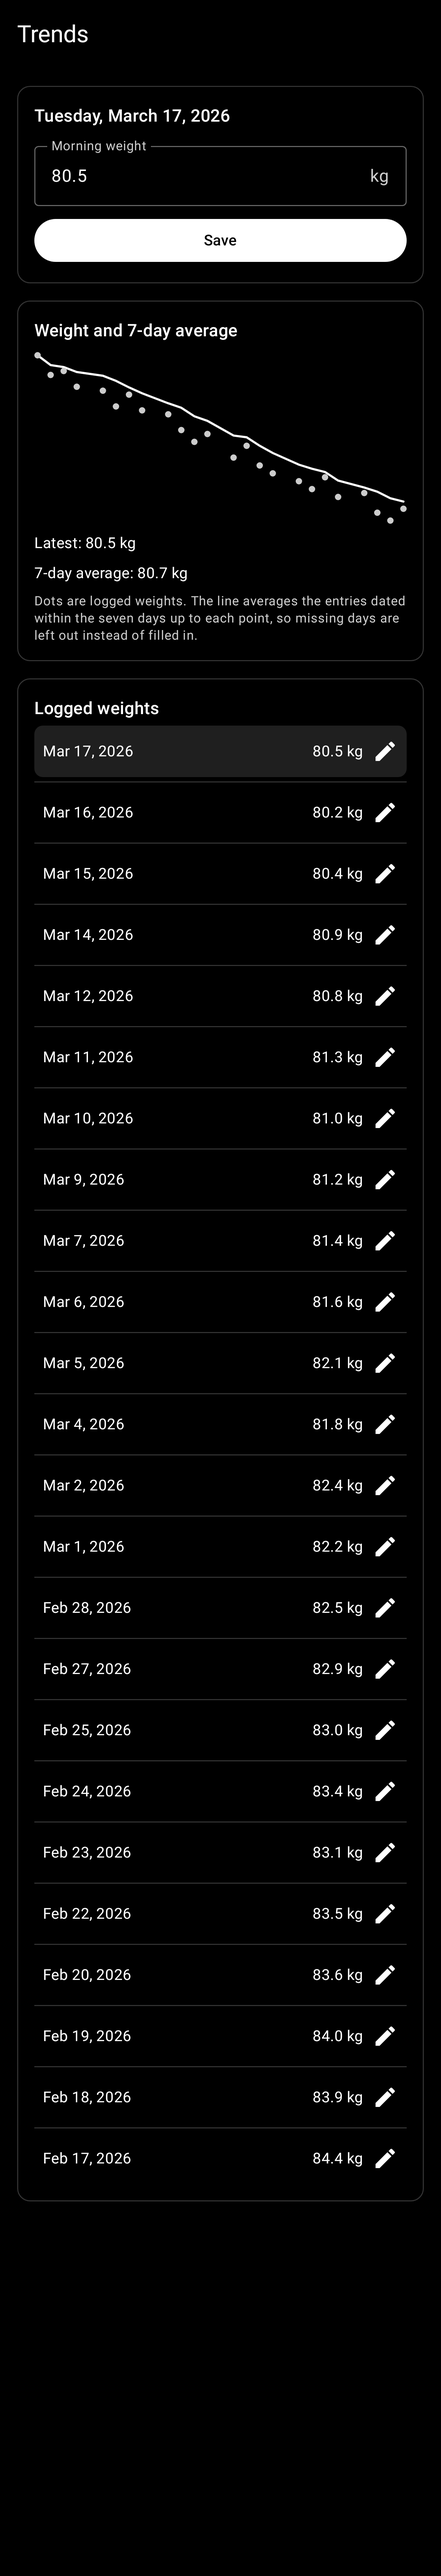
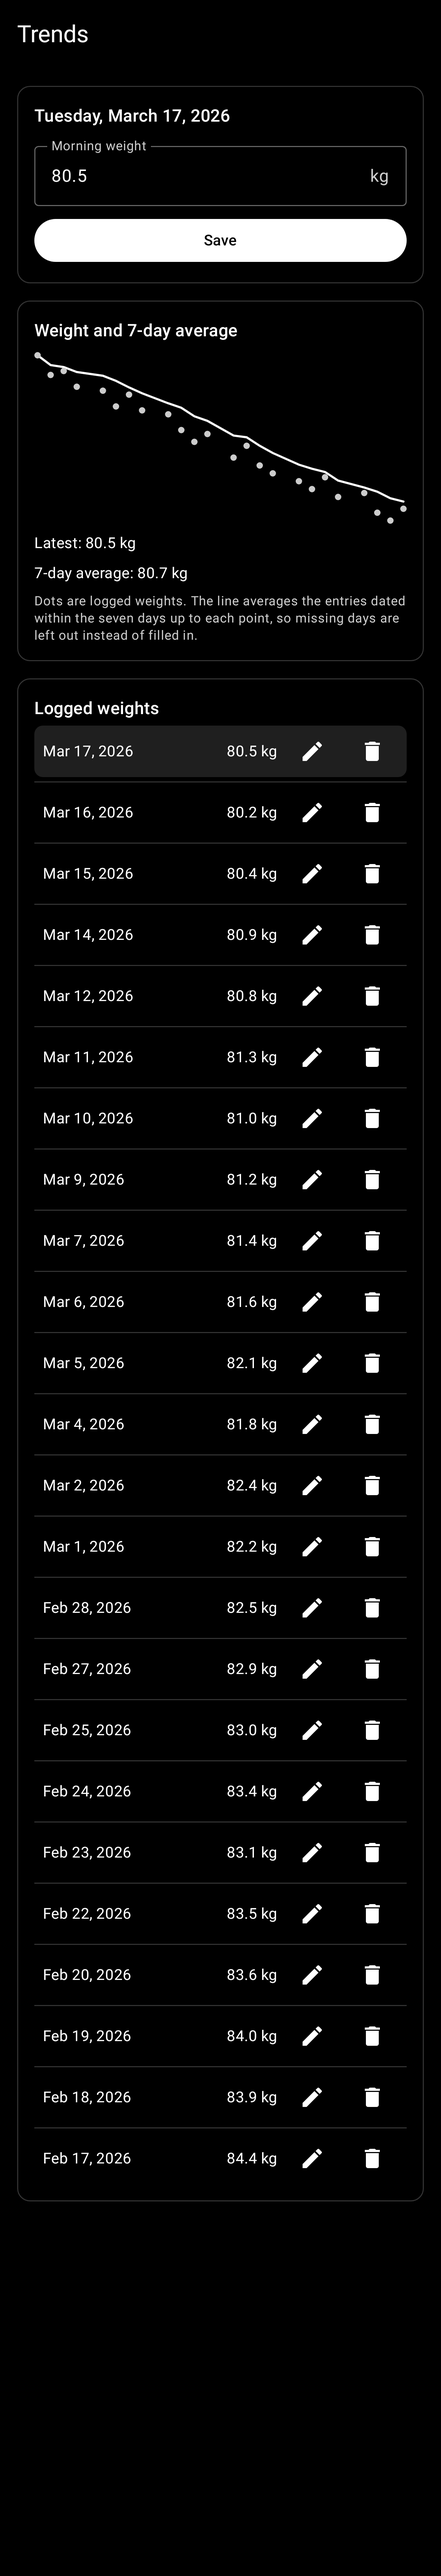
feat(trends): delete logged weights
Add Room and repository deletion by local date, expose delete controls beside logged weights, and return the editor to today when its selected record is removed. Cover persistence, ViewModel success/failure, accessibility labels, and screenshots.

diff --git a/app/src/main/java/app/kcal/feature/trends/TrendsScreen.kt b/app/src/main/java/app/kcal/feature/trends/TrendsScreen.kt
@@ -13,11 +13,13 @@ import androidx.compose.foundation.layout.padding
 import androidx.compose.foundation.rememberScrollState
 import androidx.compose.foundation.verticalScroll
 import androidx.compose.material.icons.Icons
+import androidx.compose.material.icons.filled.Delete
 import androidx.compose.material.icons.filled.Edit
 import androidx.compose.material3.Button
 import androidx.compose.material3.ExperimentalMaterial3Api
 import androidx.compose.material3.HorizontalDivider
 import androidx.compose.material3.Icon
+import androidx.compose.material3.IconButton
 import androidx.compose.material3.MaterialTheme
 import androidx.compose.material3.OutlinedCard
 import androidx.compose.material3.Scaffold
@@ -79,6 +81,7 @@ fun TrendsRoute(viewModel: TrendsViewModel = hiltViewModel()) {
         onWeightChange = viewModel::onWeightChange,
         onSave = viewModel::onSave,
         onEntryClick = viewModel::onEntryClick,
+        onDeleteEntry = viewModel::onDeleteEntry,
         onLogTodayClick = viewModel::onLogTodayClick,
         onRetry = viewModel::onRetry,
         snackbarHostState = snackbarHostState,
@@ -92,6 +95,7 @@ fun TrendsScreen(
     onWeightChange: (String) -> Unit,
     onSave: () -> Unit,
     onEntryClick: (LocalDate) -> Unit,
+    onDeleteEntry: (LocalDate) -> Unit,
     onLogTodayClick: () -> Unit,
     onRetry: () -> Unit,
     modifier: Modifier = Modifier,
@@ -118,6 +122,7 @@ fun TrendsScreen(
                     onWeightChange = onWeightChange,
                     onSave = onSave,
                     onEntryClick = onEntryClick,
+                    onDeleteEntry = onDeleteEntry,
                     onLogTodayClick = onLogTodayClick,
                     modifier = Modifier.padding(contentPadding),
                 )
@@ -131,6 +136,7 @@ private fun TrendsContent(
     onWeightChange: (String) -> Unit,
     onSave: () -> Unit,
     onEntryClick: (LocalDate) -> Unit,
+    onDeleteEntry: (LocalDate) -> Unit,
     onLogTodayClick: () -> Unit,
     modifier: Modifier = Modifier,
 ) {
@@ -155,12 +161,11 @@ private fun TrendsContent(
             WeightSeriesCard(uiState = uiState)
             LoggedWeightsCard(
                 uiState = uiState,
-                // The editor is the first card, so every row tap has to bring it back into view,
-                // including a tap on the day that is already selected.
                 onEntryClick = { date ->
                     onEntryClick(date)
                     scope.launch { scrollState.animateScrollTo(0) }
                 },
+                onDeleteEntry = onDeleteEntry,
             )
         }
     }
@@ -244,11 +249,13 @@ private fun WeightSeriesCard(uiState: TrendsUiState, modifier: Modifier = Modifi
 private fun LoggedWeightsCard(
     uiState: TrendsUiState,
     onEntryClick: (LocalDate) -> Unit,
+    onDeleteEntry: (LocalDate) -> Unit,
     modifier: Modifier = Modifier,
 ) {
     val locale = currentLocale()
     val unit = stringResource(uiState.unitSystem.weightUnitRes())
     val editLabel = stringResource(R.string.trends_edit_entry_content_description)
+    val deleteLabel = stringResource(R.string.trends_delete_entry_content_description)
     OutlinedCard(modifier = modifier.fillMaxWidth()) {
         Column(
             modifier = Modifier.padding(KcalSpacing.medium),
@@ -286,7 +293,12 @@ private fun LoggedWeightsCard(
                         stringResource(R.string.trends_entry_value, DecimalText.format(point.value, locale), unit),
                         style = MaterialTheme.typography.bodyMedium,
                     )
-                    Icon(imageVector = Icons.Filled.Edit, contentDescription = null)
+                    IconButton(onClick = { onEntryClick(point.localDate) }) {
+                        Icon(imageVector = Icons.Filled.Edit, contentDescription = editLabel)
+                    }
+                    IconButton(onClick = { onDeleteEntry(point.localDate) }) {
+                        Icon(imageVector = Icons.Filled.Delete, contentDescription = deleteLabel)
+                    }
                 }
             }
         }
@@ -331,6 +343,7 @@ private fun TrendsPreview(themeMode: ThemeMode, uiState: TrendsUiState) {
             onWeightChange = {},
             onSave = {},
             onEntryClick = {},
+            onDeleteEntry = {},
             onLogTodayClick = {},
             onRetry = {},
         )

diff --git a/app/src/test/java/app/kcal/feature/trends/TrendsViewModelTest.kt b/app/src/test/java/app/kcal/feature/trends/TrendsViewModelTest.kt
@@ -121,6 +121,28 @@ class TrendsViewModelTest {
     }
 
     @Test
+    fun `deleting the selected entry removes it and returns to today`() = runTest {
+        val past = today.minusDays(3)
+        val repository = repository(past to 90.0, today to 81.0)
+        val viewModel = viewModel(repository)
+        val states = collect(viewModel)
+        runCurrent()
+
+        viewModel.onEntryClick(past)
+        viewModel.onDeleteEntry(past)
+        runCurrent()
+
+        assertEquals(mapOf(today to 81.0), repository.weightsByDate.value.toMap())
+        assertEquals(today, states.last().editedDate)
+
+        repository.writeFails = true
+        viewModel.onDeleteEntry(today)
+        runCurrent()
+
+        assertEquals(mapOf(today to 81.0), repository.weightsByDate.value.toMap())
+    }
+
+    @Test
     fun `an untouched field follows a weight changed elsewhere, a typed one is kept`() = runTest {
         val repository = repository(today to 81.0)
         val viewModel = viewModel(repository)

diff --git a/app/src/test/java/app/kcal/feature/trends/TrendsScreenTest.kt b/app/src/test/java/app/kcal/feature/trends/TrendsScreenTest.kt
@@ -52,6 +52,7 @@ class TrendsScreenTest {
                         clicked += date
                         uiState = uiState.copy(editedDate = date, isEditingToday = false)
                     },
+                    onDeleteEntry = {},
                     onLogTodayClick = {},
                     onRetry = {},
                 )
@@ -80,6 +81,7 @@ class TrendsScreenTest {
                     onWeightChange = {},
                     onSave = {},
                     onEntryClick = { clicks++ },
+                    onDeleteEntry = {},
                     onLogTodayClick = {},
                     onRetry = {},
                 )
@@ -116,6 +118,7 @@ class TrendsScreenTest {
                     onWeightChange = {},
                     onSave = {},
                     onEntryClick = {},
+                    onDeleteEntry = {},
                     onLogTodayClick = {},
                     onRetry = {},
                     snackbarHostState = snackbarHostState,

diff --git a/app/src/test/java/app/kcal/data/repository/ProfileRepositoryImplTest.kt b/app/src/test/java/app/kcal/data/repository/ProfileRepositoryImplTest.kt
@@ -107,7 +107,7 @@ class ProfileRepositoryImplTest {
     }
 
     @Test
-    fun `the weight series is chronological and one upsert replaces its own date`() = runTest {
+    fun `the weight series supports chronological upsert and deletion`() = runTest {
         val yesterday = today.minusDays(1)
         repository.logWeight(WeightEntry(localDate = today, kg = 81.0))
         repository.logWeight(WeightEntry(localDate = yesterday, kg = 83.0))
@@ -124,6 +124,11 @@ class ProfileRepositoryImplTest {
             repository.weights.first().map { it.localDate to it.kg },
         )
         assertEquals(80.4, repository.preferences.first().profile.currentWeightKg)
+
+        repository.deleteWeight(today)
+
+        assertEquals(listOf(WeightEntry(yesterday, 83.0)), repository.weights.first())
+        assertEquals(83.0, repository.preferences.first().profile.currentWeightKg)
     }
 
     @Test

diff --git a/app/src/main/java/app/kcal/feature/trends/TrendsViewModel.kt b/app/src/main/java/app/kcal/feature/trends/TrendsViewModel.kt
@@ -103,6 +103,20 @@ class TrendsViewModel @Inject constructor(
         _uiState.value = _uiState.value.copy(weightInput = text, inputError = null, saveFailed = false)
     }
 
+    fun onDeleteEntry(localDate: LocalDate) {
+        viewModelScope.launch {
+            try {
+                profileRepository.deleteWeight(localDate)
+                // If we were editing the deleted date, go back to today
+                if (selectedDate.value == localDate) editDate(null)
+            } catch (cancellation: CancellationException) {
+                throw cancellation
+            } catch (_: Exception) {
+                // Ignored; the entry stays visible and the user can retry
+            }
+        }
+    }
+
     private fun editDate(localDate: LocalDate?) {
         isDraftEdited = false
         draftRevision++

diff --git a/app/src/test/java/app/kcal/testing/FakeProfileRepository.kt b/app/src/test/java/app/kcal/testing/FakeProfileRepository.kt
@@ -70,6 +70,18 @@ class FakeProfileRepository(
         state.value = state.value.copy(profile = state.value.profile.copy(currentWeightKg = latest.value))
     }
 
+    override suspend fun deleteWeight(localDate: LocalDate) {
+        if (writeFails) throw IOException("weight storage unavailable")
+        weightsByDate.value = sortedMapOf<LocalDate, Double>().apply {
+            putAll(weightsByDate.value)
+            remove(localDate)
+        }
+        val latest = weightsByDate.value.entries.lastOrNull()
+        state.value = state.value.copy(
+            profile = state.value.profile.copy(currentWeightKg = latest?.value),
+        )
+    }
+
     override suspend fun setUnitSystem(unitSystem: UnitSystem) {
         state.value = state.value.copy(unitSystem = unitSystem)
     }

diff --git a/app/src/main/java/app/kcal/data/db/KcalDaos.kt b/app/src/main/java/app/kcal/data/db/KcalDaos.kt
@@ -22,6 +22,9 @@ interface WeightEntryDao {
     @Query("SELECT * FROM weight_entries ORDER BY local_date_epoch_day")
     fun observeAll(): Flow<List<WeightEntryEntity>>
 
+    @Query("DELETE FROM weight_entries WHERE local_date_epoch_day = :epochDay")
+    suspend fun deleteByDate(epochDay: Int)
+
     @Query("SELECT * FROM weight_entries WHERE local_date_epoch_day = :epochDay")
     suspend fun findByDate(epochDay: Int): WeightEntryEntity?
 }

diff --git a/app/src/main/java/app/kcal/domain/repository/ProfileRepository.kt b/app/src/main/java/app/kcal/domain/repository/ProfileRepository.kt
@@ -34,6 +34,9 @@ interface ProfileRepository {
     /** Upserts the weight of its own local date, so re-entry replaces that day's entry. */
     suspend fun logWeight(entry: WeightEntry)
 
+    /** Deletes the weight entry for [localDate]. No-op if none exists. */
+    suspend fun deleteWeight(localDate: LocalDate)
+
     suspend fun setUnitSystem(unitSystem: UnitSystem)
 
     suspend fun setAppLanguage(appLanguage: AppLanguage)

diff --git a/app/src/main/java/app/kcal/data/repository/ProfileRepositoryImpl.kt b/app/src/main/java/app/kcal/data/repository/ProfileRepositoryImpl.kt
@@ -58,6 +58,10 @@ class ProfileRepositoryImpl @Inject constructor(
         )
     }
 
+    override suspend fun deleteWeight(localDate: LocalDate) {
+        weightEntryDao.deleteByDate(localDate.toEpochDay().toInt())
+    }
+
     override suspend fun setUnitSystem(unitSystem: UnitSystem) {
         preferencesDataSource.setUnitSystem(unitSystem)
     }

diff --git a/app/src/test/java/app/kcal/navigation/KcalNavHostTest.kt b/app/src/test/java/app/kcal/navigation/KcalNavHostTest.kt
@@ -159,6 +159,7 @@ class KcalNavHostTest {
                             onWeightChange = {},
                             onSave = {},
                             onEntryClick = {},
+                            onDeleteEntry = {},
                             onLogTodayClick = {},
                             onRetry = {},
                         )

diff --git a/app/src/main/java/app/kcal/navigation/KcalNavHost.kt b/app/src/main/java/app/kcal/navigation/KcalNavHost.kt
@@ -191,6 +191,7 @@ private fun PreviewNavHost() {
                 onWeightChange = {},
                 onSave = {},
                 onEntryClick = {},
+                onDeleteEntry = {},
                 onLogTodayClick = {},
                 onRetry = {},
             )

diff --git a/app/src/test/java/app/kcal/feature/ScreenshotTest.kt b/app/src/test/java/app/kcal/feature/ScreenshotTest.kt
@@ -488,6 +488,7 @@ class ScreenshotTest {
             onWeightChange = {},
             onSave = {},
             onEntryClick = {},
+            onDeleteEntry = {},
             onLogTodayClick = {},
             onRetry = {},
         )
